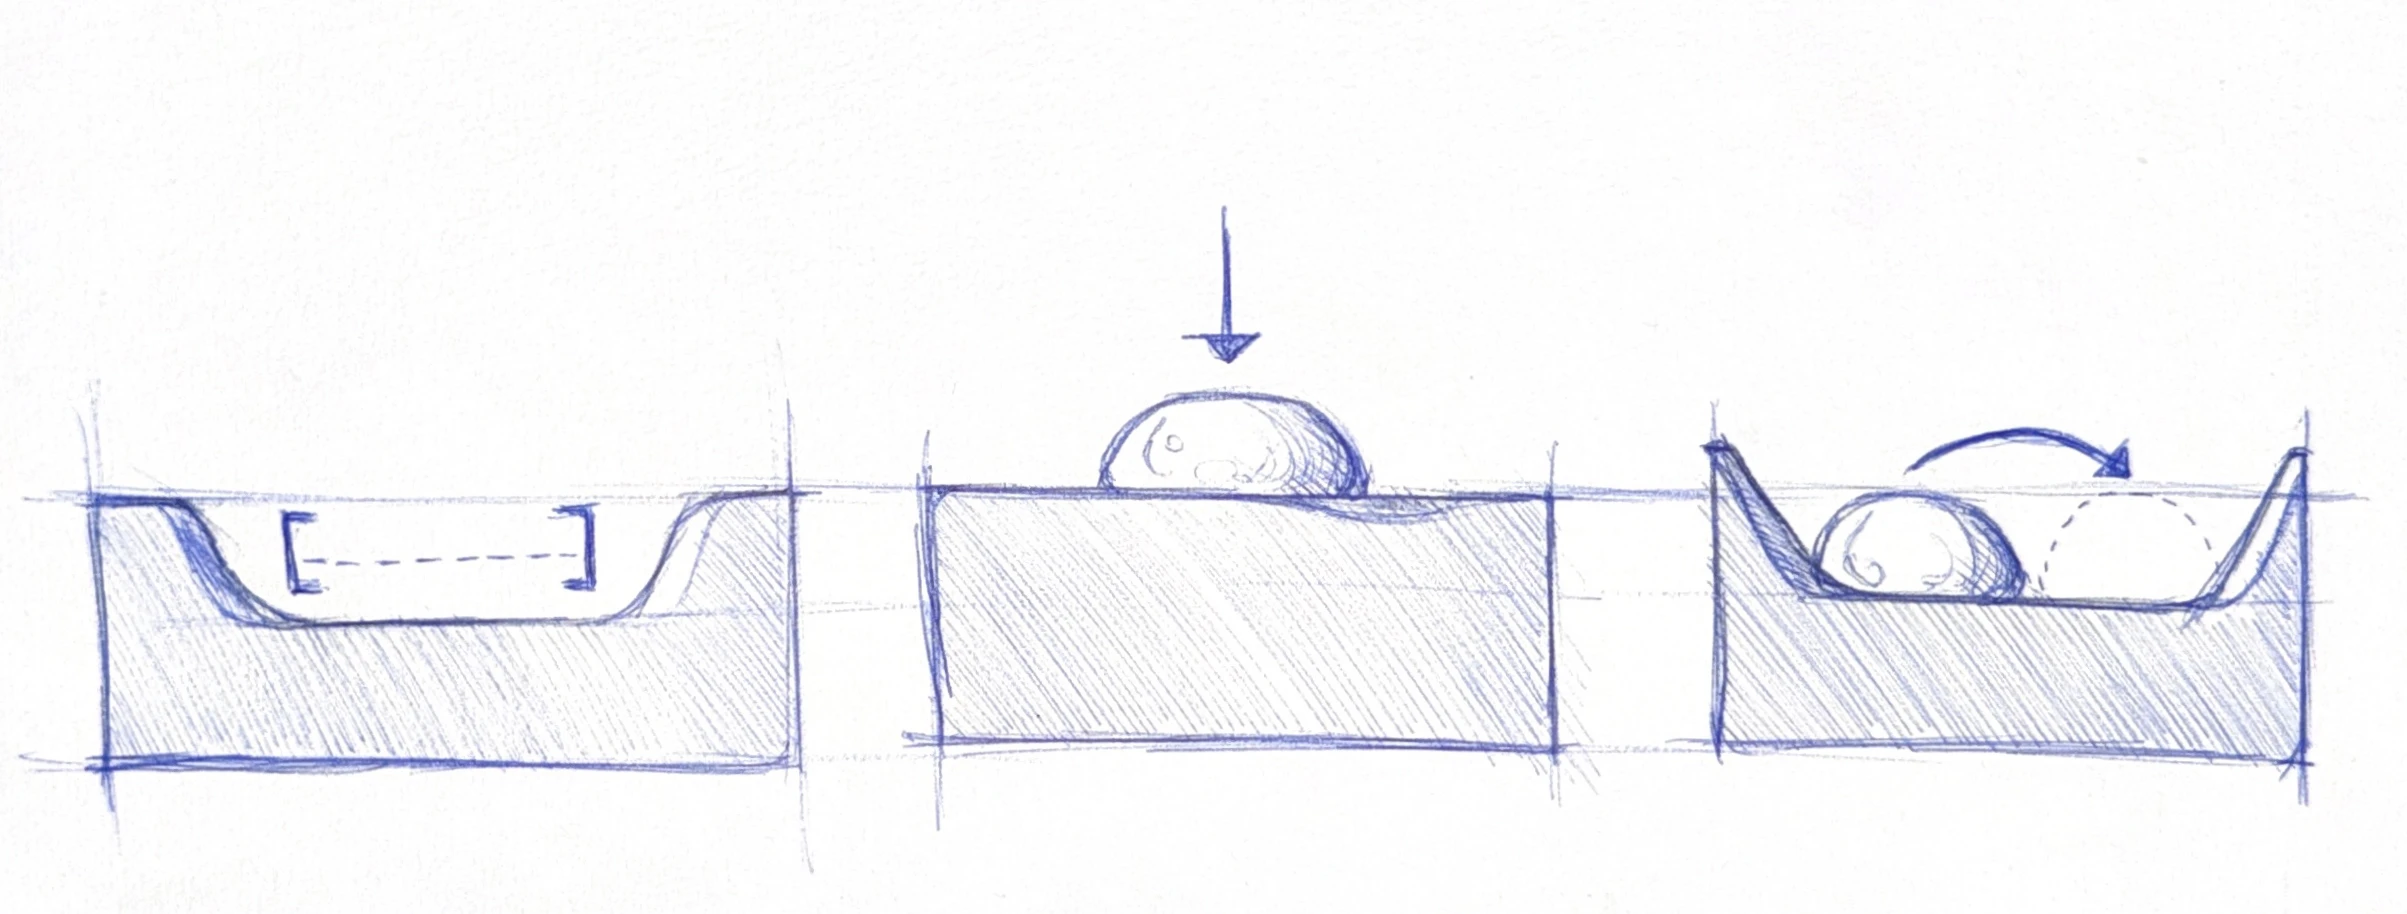
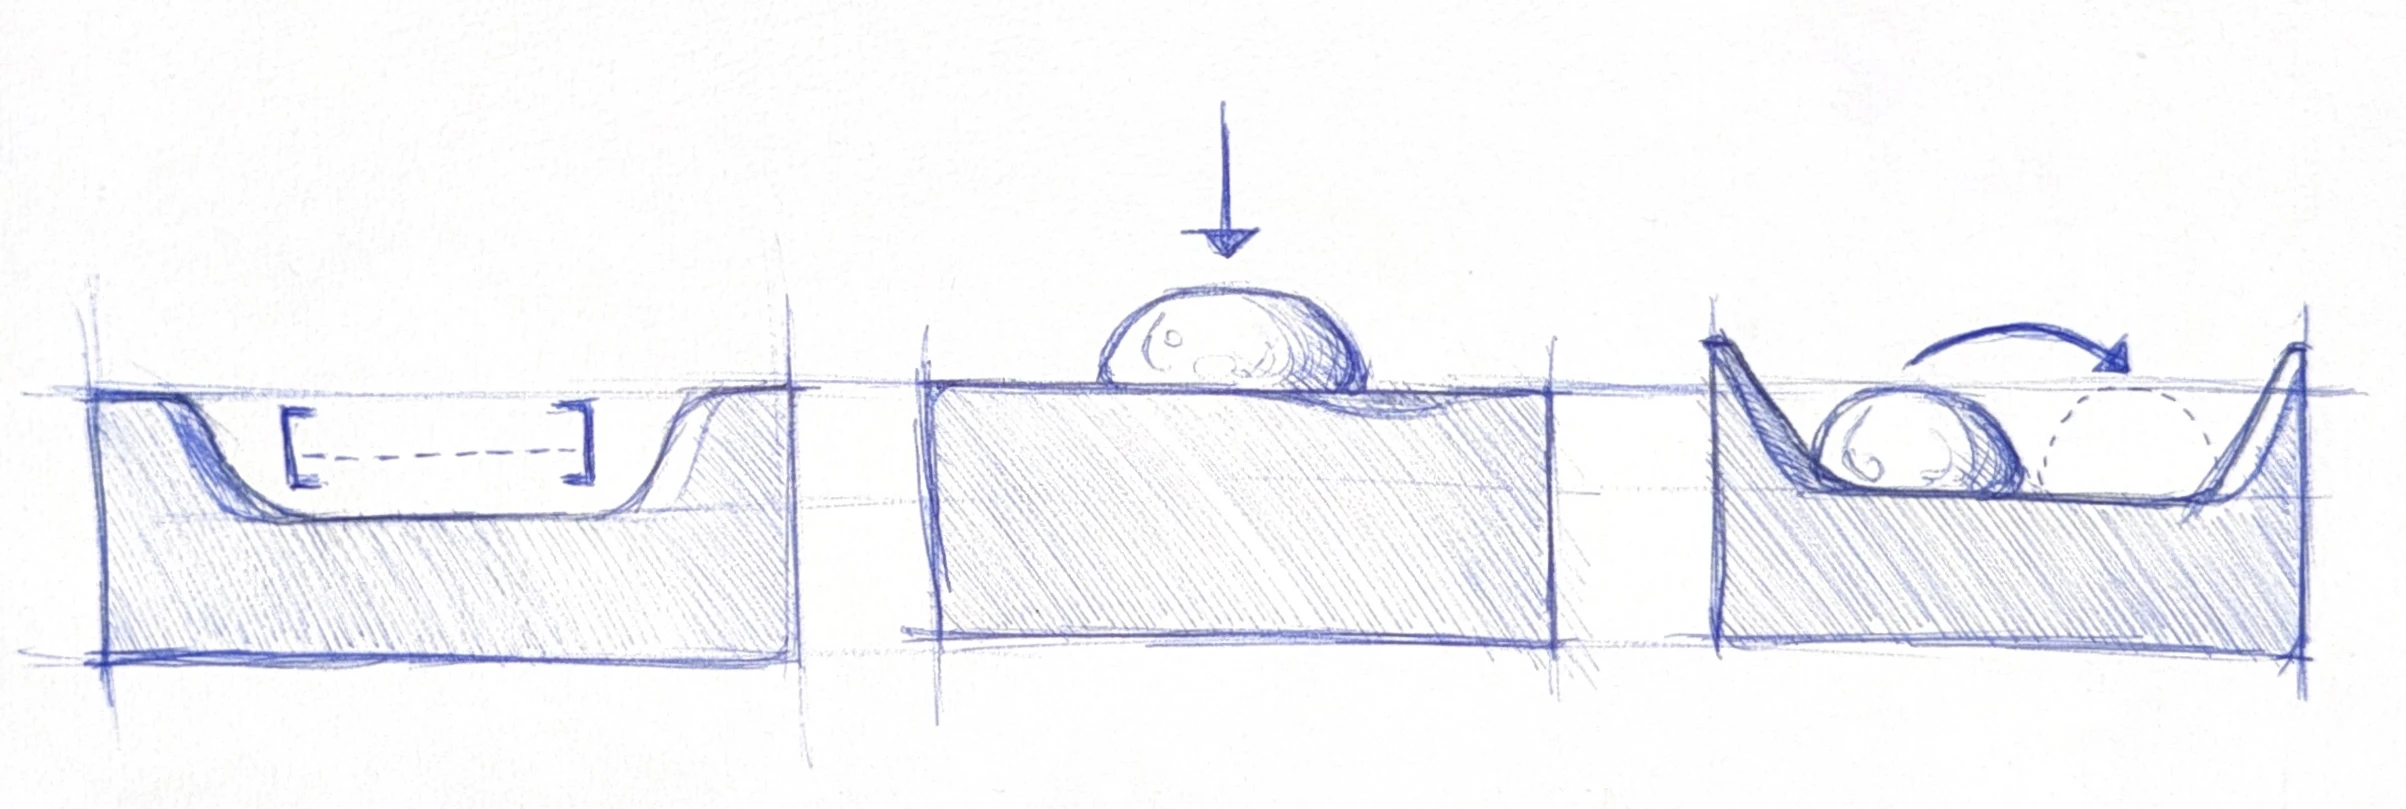
Trim excess paper above the cross-section sketch

Changed region(s): [[0.0, 0.1545, 0.9975, 0.8653]]

diff --git a/public/to.morrow2d.html b/public/to.morrow2d.html
@@ -3111,7 +3111,7 @@
         </filter></defs>
       </svg>
       <figure class="paper paper--scan">
-        <img src="/images/to.morrow/seitenansicht-skizze.webp?v=2" width="2407" height="914" loading="lazy" alt="" />
+        <img src="/images/to.morrow/seitenansicht-skizze.webp?v=3" width="2406" height="809" loading="lazy" alt="" />
         <figcaption class="wireflow-sr" data-i18n="n-side-description">Handgezeichnete Querschnitte: links eine vertiefte Texteingabe, in der Mitte ein erhabener Knopf mit Druckpfeil, rechts eine Blase, die sich in einer Mulde zwischen zwei Zuständen bewegt.</figcaption>
       </figure>
       <details class="sketch-tuner" id="sketch-tuner" hidden open>

diff --git a/tomorrow-casestudy-plan.md b/tomorrow-casestudy-plan.md
@@ -892,3 +892,7 @@ They independently adjust line darkness, ink color, paper tint strength and pape
 color, save preview values in localStorage, expose the current JSON for sharing,
 and provide Reset. The normal public page uses the fixed defaults, not the local
 preview settings. Controls can be removed after Lucas supplies final values.
+
+Sketch top margin tightened at Lucas’s request: PDF crop now starts at y=405
+instead of y=300; final image 2406×809 px. This removes 105 px of upper whitespace
+while preserving the complete press arrow, drawings, alignment and appearance controls.
